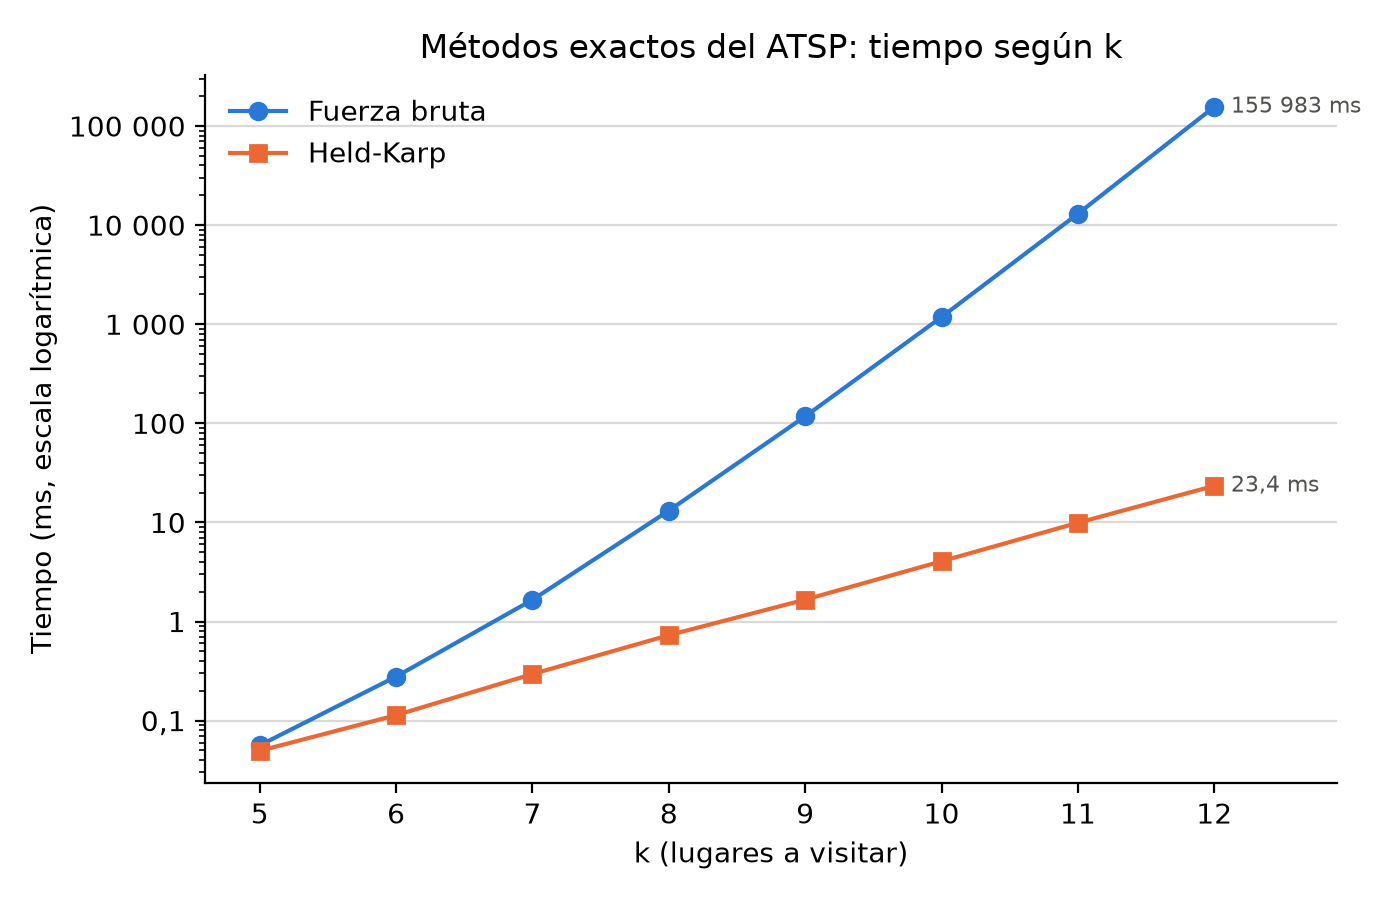
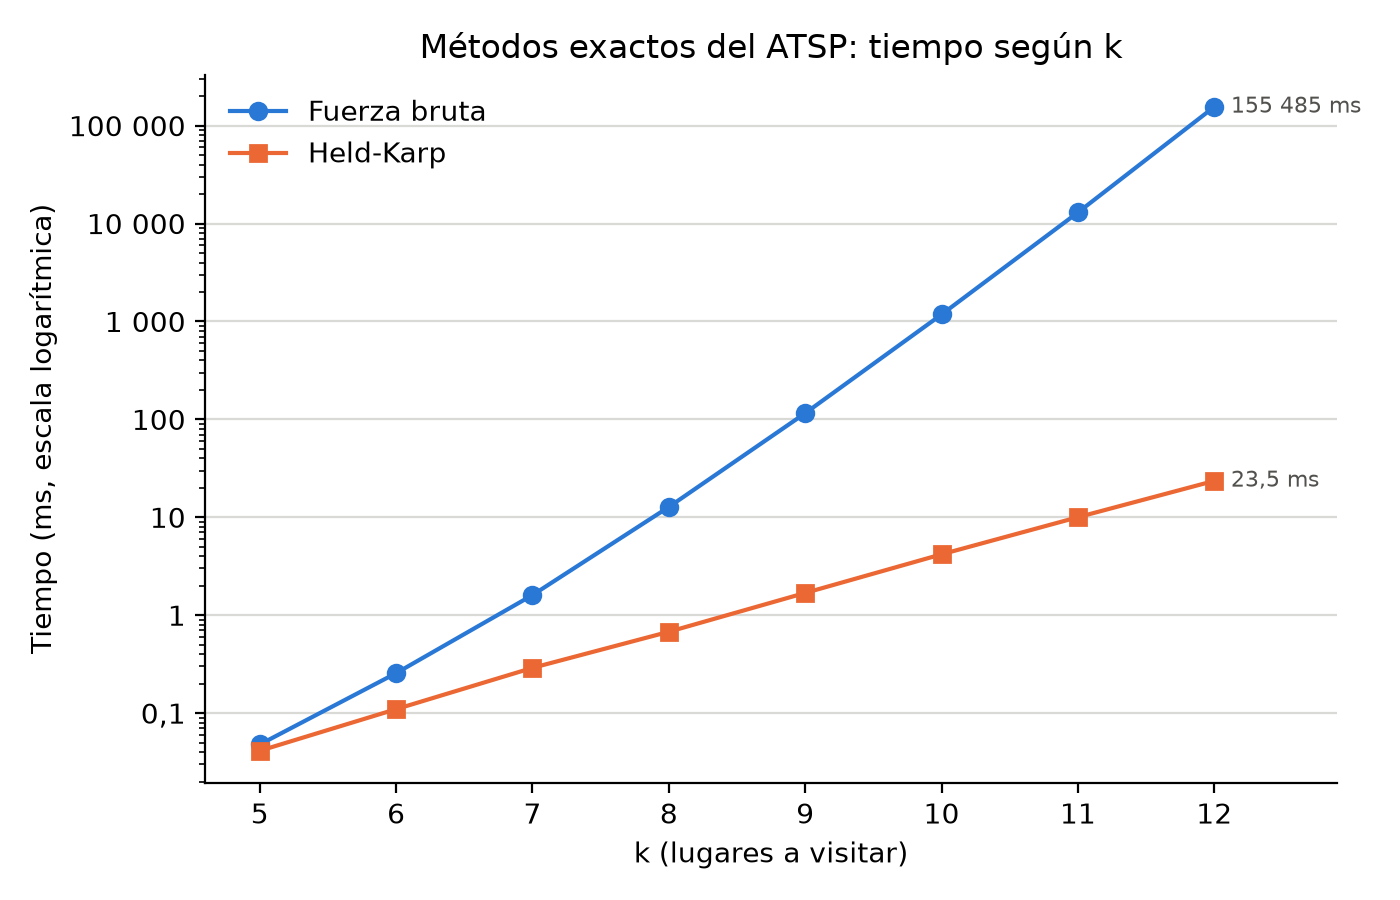
feat(R4): resultados con la matriz del catálogo verificado (00db84c0…) [R4-B03, R4-B14..B18, PE-B01..B10]

diff --git a/docs/anexo-ia.md b/docs/anexo-ia.md
@@ -23,6 +23,7 @@ Exigido por la sección 3 del enunciado. Se actualiza en cada sesión de trabajo
 | 2026-11-10 | Claude Code (Opus 5.5) | Fase 5 (Laura, R4): revisión de lo que la spec no definía para el experimento; cambio de spec aprobado por Laura (sorteo en el orden de la matriz, registro de la matriz usada con su sha256, medición con `functools.partial`, tolerancia de la verificación de la heurística; en `itinerario.csv`, `lugar` es el nombre y se agrega `id`); `scripts/run_r4.py`. La matriz usada es la de R2 del 5 nov (`sha256` 84106c67…, en `results/r4/matriz_usada.json`), anterior al catálogo verificado del 10 nov: Juan la va a regenerar y R4 se debe repetir con ella | `specs/R4-ruta-optima.md`, `scripts/run_r4.py`, `results/r4/`, `docs/anexo-ia.md` | El script verifica antes de escribir y aborta si algo falla: R4-B03 en cada recorrido, fuerza bruta = Held-Karp en k = 5..12 (ambos completaron; fuerza bruta k = 12 en 160 s, medida una vez por PE-B03), heurística ≥ óptimo en las 20 instancias (brecha máxima 21,2 %). Estimación previa de 4 min, medida en un script temporal; la corrida usó 231 s de CPU. Incidentes: (1) la IA corrió `pytest` en paralelo con la primera corrida y la detuvo para no contaminar los tiempos; (2) la segunda corrida abortó por un error del script (la verificación del itinerario no tenía en cuenta los atractivos quitados por R4-B17), corregido; (3) la Mac entró en reposo durante la corrida final (80 min de reloj), pero `perf_counter` no cuenta el reposo y los tiempos coinciden con la segunda corrida (diferencia < 4 %). Itinerario: de 8 atractivos se quitaron 4 (jornada final 9,8 h). `pytest`: 215 en verde. |
 | 2026-11-10 | Claude Code (Opus 5.5) | Fase 5 (Laura, R4): lista fija de 7 atractivos para el itinerario (cambio de spec aprobado por Laura), constante `ITINERARY_ATTRACTIONS` en `run_r4.py` y nueva corrida completa; corrección aprobada del docstring de `measure_with_timeout` (usa `fork` también en macOS), en commit aparte | `specs/R4-ruta-optima.md`, `scripts/run_r4.py`, `src/rutas/benchmark.py`, `results/r4/`, `docs/anexo-ia.md` | La lista se buscó en un script temporal con las 12 870 combinaciones de 7 y 8 atractivos (sin Cocora y Acaime juntos): 29 quitan exactamente uno y ninguna pasa de 11 h por menos de 122 min (los 7 más cortos suman 11,25 h de visitas); se eligió la de menor exceso. Resultado: 13,04 h → se quita `barbas_bremen` (ahorro 183,1 min) → 9,99 h. Corrida con `caffeinate -i`, sin `pytest` en paralelo: 3 min 48 s, 99 % de CPU; verificaciones en verde; tiempos de exactas dentro de 3 % de la corrida anterior para k ≥ 7 (k = 5 y 6, por debajo de 0,3 ms, varían hasta 14 %); calidad idéntica. Matriz: la de R2 del 5 nov (anterior al catálogo verificado). `pytest`: 215 en verde. |
 | 2026-11-10 | Claude Code (Opus 5.5) | Fase 6 (Laura, R3 y R4): revisión de lo que la spec no definía para las figuras y tablas; cambio de spec aprobado por Laura (PE-B09 tablas en Markdown en `results/tablas/` con formato de números en español, PE-B10 estilo de las gráficas, casos PE-C08 a PE-C10); `src/rutas/report.py` (formato y tablas) y `scripts/make_figures.py` con `figuras_r3` y `figuras_r4` (lugar indicado para `figuras_r2` de Juan, sin implementar) | `specs/protocolo-experimental.md`, `src/rutas/report.py`, `scripts/make_figures.py`, `tests/test_report.py`, `results/r4/exactas_tiempo_vs_k.png`, `results/tablas/`, `docs/anexo-ia.md` | PE-C08 a PE-C10 escritas antes del código y vistas fallar; `pytest`: 221 en verde. El script solo lee `results/` (y los nombres de `data/catalogo.csv` para los atractivos quitados) y no importa módulos de algoritmos. Colores tomados de una paleta validada para daltonismo; el marcador también distingue las series. La gráfica se revisó a la vista (sin textos encimados) y las tablas se compararon con los CSV. |
+| 2026-11-10 | Claude Code (Opus 5.5) | Cierre de R3 y R4 (Laura) con la matriz nueva de Juan: merge de `main` (ff3aa32) en `laura/r3-r4` sin conflictos; nueva corrida de `run_r4.py` y `make_figures.py`; cifras del itinerario en la spec actualizadas (cambio aprobado por Laura) | `specs/R4-ruta-optima.md`, `results/r4/`, `results/tablas/r4.md`, `docs/anexo-ia.md` | `red_resumen.json` solo cambió la URL de Overpass de los radios: V y E iguales (CFC 8 791 / 20 132) y `red_cfc.graphml` sin cambios, así que R3 no se repitió (`results/tablas/r3.md` idéntico). R4 con `caffeinate -i` y sin `pytest` en paralelo (3 min 47 s, 99 % de CPU); `matriz_usada.json` pasó de sha256 84106c67… a 00db84c0…, igual a `shasum` de `results/r2/matriz_tiempos.csv`. Verificaciones en verde: fuerza bruta = Held-Karp en k = 5..12 y heurística ≥ óptimo (brecha máxima 24,6 %). Itinerario: sigue quitando solo `barbas_bremen` (13,26 h → 10,04 h); la búsqueda en las 12 870 combinaciones confirma que sigue siendo la lista de menor exceso (135,9 min). `pytest`: 221 en verde. El documento `docs/documento/laura-catalogo-r3-r4.md` no existe en el repo; queda pendiente por decisión de Laura. |
 
 ## Criterios del grupo
 

diff --git a/results/tablas/r4.md b/results/tablas/r4.md
@@ -4,14 +4,14 @@
 
 | k | Tiempo fuerza bruta (ms) | Tiempo Held-Karp (ms) | Memoria tabla Held-Karp (MB) |
 | ---: | ---: | ---: | ---: |
-| 5 | 0,0563 | 0,0496 | 0,00192 |
-| 6 | 0,278 | 0,113 | 0,00461 |
-| 7 | 1,66 | 0,295 | 0,0108 |
-| 8 | 13,1 | 0,728 | 0,0246 |
-| 9 | 117 | 1,66 | 0,0553 |
-| 10 | 1 181 | 4,05 | 0,123 |
-| 11 | 13 010 | 9,91 | 0,270 |
-| 12 | 155 983* | 23,4 | 0,590 |
+| 5 | 0,0478 | 0,0412 | 0,00192 |
+| 6 | 0,256 | 0,110 | 0,00461 |
+| 7 | 1,60 | 0,290 | 0,0108 |
+| 8 | 12,7 | 0,677 | 0,0246 |
+| 9 | 116 | 1,69 | 0,0553 |
+| 10 | 1 178 | 4,18 | 0,123 |
+| 11 | 12 976 | 10,0 | 0,270 |
+| 12 | 155 485* | 23,5 | 0,590 |
 
 \* Una sola ejecución: la primera pasó de 60 s (PE-B03). Los demás tiempos son la mediana de 5 ejecuciones. Mayor k resuelto: fuerza bruta k = 12; Held-Karp k = 12. Fuente: `results/r4/exactas_tiempos.csv`.
 
@@ -19,10 +19,10 @@
 
 | k | Instancias | Brecha promedio (%) | Brecha máxima (%) |
 | ---: | ---: | ---: | ---: |
-| 5 | 5 | 5,2 | 10,7 |
-| 8 | 5 | 8,0 | 11,1 |
-| 10 | 5 | 9,8 | 12,6 |
-| 12 | 5 | 12,8 | 21,2 |
+| 5 | 5 | 6,9 | 11,1 |
+| 8 | 5 | 7,9 | 16,1 |
+| 10 | 5 | 11,2 | 22,5 |
+| 12 | 5 | 13,6 | 24,6 |
 
 Fuente: `results/r4/heuristica_resumen.csv`.
 
@@ -30,18 +30,18 @@ Fuente: `results/r4/heuristica_resumen.csv`.
 
 | Orden | Lugar | Desplazamiento desde el anterior (min) | Visita (min) | Tiempo acumulado (h) |
 | --- | --- | ---: | ---: | ---: |
-| 1 | Jardín Botánico del Quindío | 9,1 | 150 | 2,65 |
-| 2 | Mirador Alto de la Cruz y Calle Real | 27,4 | 90 | 4,61 |
-| 3 | Mirador Colina Iluminada | 28,4 | 60 | 6,08 |
-| 4 | Museo del Oro Quimbaya | 32,0 | 90 | 8,12 |
-| 5 | Parque Fundadores | 2,6 | 45 | 8,91 |
-| 6 | Parque de la Vida | 2,0 | 60 | 9,94 |
-| Regreso | Plaza de Bolívar de Armenia | 2,9 | — | 9,99 |
+| 1 | Jardín Botánico del Quindío | 9,8 | 150 | 2,66 |
+| 2 | Mirador Alto de la Cruz y Calle Real | 28,0 | 90 | 4,63 |
+| 3 | Mirador Colina Iluminada | 29,6 | 60 | 6,12 |
+| 4 | Museo del Oro Quimbaya | 30,7 | 90 | 8,13 |
+| 5 | Parque de la Vida | 4,2 | 60 | 9,20 |
+| 6 | Parque Fundadores | 1,5 | 45 | 9,98 |
+| Regreso | Plaza de Bolívar de Armenia | 3,7 | — | 10,04 |
 
 - Tiempo total de visitas: 495,0 min (8,25 h).
-- Tiempo total de desplazamientos: 104,4 min (1,74 h).
-- Duración total de la jornada: 599,4 min (9,99 h); cabe en 11 h.
+- Tiempo total de desplazamientos: 107,4 min (1,79 h).
+- Duración total de la jornada: 602,4 min (10,04 h); cabe en 11 h.
 - Atractivos quitados (R4-B17), en el orden en que se quitaron:
-  - Reserva Natural Barbas-Bremen (`barbas_bremen`): ahorro 183,1 min; jornada antes de quitarlo 13,04 h.
+  - Reserva Natural Barbas-Bremen (`barbas_bremen`): ahorro 193,4 min; jornada antes de quitarlo 13,26 h.
 
 Fuentes: `results/r4/itinerario.csv` y `results/r4/itinerario_resumen.json`.
